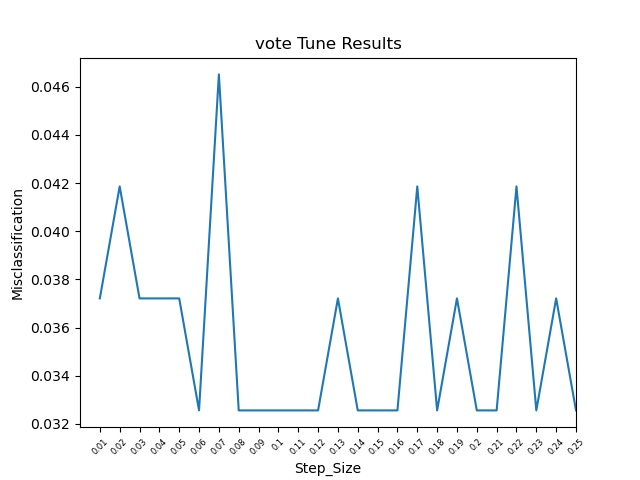
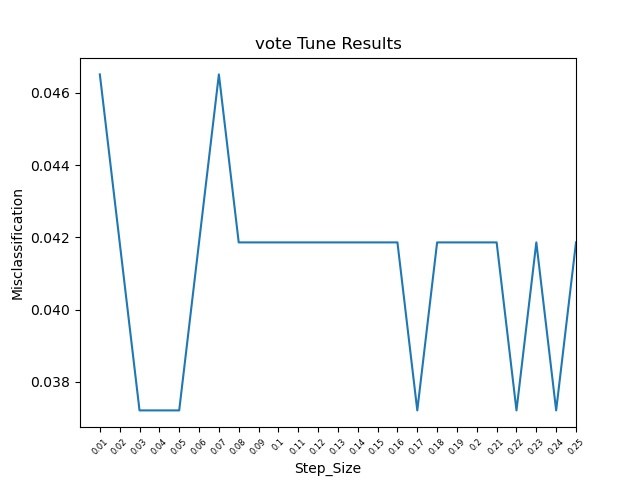
Commenting for logistic, fixed a bug for gradient descent doing one too many updates

diff --git a/logistic_regression/logistic_regression.py b/logistic_regression/logistic_regression.py
@@ -7,6 +7,12 @@ import matplotlib.pyplot as plt
 class LogisticRegressor:
     """
     Class LogisticRegressor
+
+    This class implements a logistic regression which splits the classes using a logistic discriminant and a softmax
+        function. Weights for determining class splits are learned using gradient descent. The class with the highest
+        softmax is the predicted class. Functions implemented are Tune, Fit, Predict, and Summarize. The tune function
+        is optional and outputs results for various step sizes. To run a Fit on a desired step size add the command line
+        argument <-s float> when running main.
     """
     def __init__(self, etl, step_size=.01):
         """
@@ -15,6 +21,7 @@ class LogisticRegressor:
         Sets main variables and array conversion
 
         :param etl: etl, etl object with transformed and split data
+        :param step_size: float, desired step_size to use during training
         """
         # Meta Variables
         self.etl = etl
@@ -51,143 +58,45 @@ class LogisticRegressor:
         self.summary_classification = None
 
     def tune(self):
+        """
+        Tune function.
+
+        This function runs through a couple of step_sizes. The model is then trained for that step_size and then tested
+            against the tune data set. The resulting misclassification is stored and then visualized as a chart. The
+            step_size for the entire model is not set here. That should be done by adding a step_size argument
+        """
+        # Gather default step_sizes
         step_sizes = self.tune_results.keys()
 
+        # Loop through step_sizes to test
         for step_size in step_sizes:
             misclassification = 0
 
+            # Train over the 5 CV splits
             for index in range(5):
+                # Gather variables, weights and intercepts come from the training
                 data = self.train_array_split[index]
                 weights, intercepts = self.train(data, step_size)
 
+                # Classify using our model and tune data set
                 model = {
                     'weights': weights,
                     'intercepts': intercepts
                 }
                 predictions = self.classify(self.tune_array, model)
 
+                # Compare results
                 results = pd.DataFrame.copy(self.tune_data)
                 results['Prediction'] = predictions
 
+                # Calculate misclassification
                 misclassification += len(results[results['Class'] != results['Prediction']]) / len(results)
 
+            # Save results
             self.tune_results.update({step_size: misclassification / 5})
 
+        # Trigger visualization
         self.visualize()
-
-    def fit(self):
-        for index in range(5):
-            data = self.train_array_split[index]
-
-            weights, intercepts = self.train(data)
-
-            self.train_models[index].update({
-                'weights': weights,
-                'intercepts': intercepts
-            })
-
-    def train(self, data, step_size=None):
-        if not step_size:
-            step_size = self.step_size
-
-        x = data[:, :-1].astype(float)
-        y = data[:, -1]
-
-        weights = np.random.uniform(low=-.01, high=.01, size=(self.classes, x.shape[1]))
-        intercepts = np.zeros((self.classes, 1))
-
-        misclassification = 1
-
-        while True:
-            weights_delta = np.zeros((self.classes, x.shape[1]))
-            intercepts_delta = np.zeros((self.classes, 1))
-
-            outputs = np.matmul(x, weights.T) + intercepts.T
-            likelihood = (np.exp(outputs) / np.sum(np.exp(outputs), axis=1)[:, None])
-            predictions = np.argmax(likelihood, axis=1).astype('O')
-
-            for index in range(self.classes):
-                current_class = self.class_names[index]
-                actuals = (y == current_class).astype(int)
-                difference = (actuals - likelihood[:, index])
-
-                weights_delta[index, :] = np.matmul(difference, x)
-                intercepts_delta[index, :] += sum(difference)
-
-                predictions[predictions == index] = self.class_names[index]
-
-            weights = weights + (step_size * weights_delta)
-            intercepts = intercepts + (step_size * intercepts_delta)
-
-            new_misclassification = sum(predictions != y) / len(y)
-
-            if new_misclassification < misclassification:
-                misclassification = new_misclassification
-            else:
-                break
-
-        return weights, intercepts
-
-    def predict(self):
-        for index in range(5):
-            data = self.test_array_split[index]
-            model = self.train_models[index]
-
-            predictions = self.classify(data, model)
-
-            results = pd.DataFrame.copy(self.test_split[index])
-            results['Prediction'] = predictions
-
-            misclassification = len(results[results['Class'] != results['Prediction']]) / len(results)
-
-            self.test_results[index].update({
-                'results': results,
-                'misclassification': misclassification
-            })
-
-    def classify(self, data, model):
-        x = data[:, :-1].astype(float)
-
-        weights = model['weights']
-        intercepts = model['intercepts']
-
-        outputs = np.matmul(x, weights.T) + intercepts.T
-        likelihood = (np.exp(outputs) / np.sum(np.exp(outputs), axis=1)[:, None])
-        predictions = np.argmax(likelihood, axis=1).astype('O')
-
-        for index in range(self.classes):
-            predictions[predictions == index] = self.class_names[index]
-
-        return predictions
-
-    def summarize(self):
-        # Calculate misclassification
-        misclassification = sum([self.test_results[index]['misclassification'] for index in range(5)])
-
-        # Summary JSON
-        self.summary = {
-            'tune': {
-                'step_size': self.step_size
-            },
-            'test': {
-                'misclassification': misclassification / 5
-            }
-        }
-
-        # Output JSON
-        with open(f'output_{self.data_name}\\logistic_{self.data_name}_summary.json', 'w') as file:
-            json.dump(self.summary, file)
-
-        # Summary CSV
-        summary_classification = pd.DataFrame()
-
-        # Loop through each test data set and add the results
-        for index in range(5):
-            summary_classification = summary_classification.append(self.test_results[index]['results'])
-
-        # Dump CSV and save
-        summary_classification.to_csv(f'output_{self.data_name}\\logistic_{self.data_name}_classification.csv')
-        self.summary_classification = summary_classification
 
     def visualize(self):
         """
@@ -217,3 +126,194 @@ class LogisticRegressor:
 
         # Saving
         plt.savefig(f'output_{self.data_name}\\logistic_{self.data_name}_tune.jpg')
+
+    def fit(self):
+        """
+        Fit Function
+
+        This function loops through the 5 CV splits and then calls to the train function. It receives the results of the
+            train function and sets the model for that split
+        """
+        # Loop through the 5 CV splits
+        for index in range(5):
+            # Assign data
+            data = self.train_array_split[index]
+
+            # Train
+            weights, intercepts = self.train(data)
+
+            # Set model
+            self.train_models[index].update({
+                'weights': weights,
+                'intercepts': intercepts
+            })
+
+    def train(self, data, step_size=None):
+        """
+        Train Function
+
+        This function takes data and then performs gradient descent on it to discover the optimal weights. Gradient
+            descent occurs until there are no further changes to misclassification. The step_size is used as a scalar
+            for the deltas in gradient descent
+
+        :param data: np.array, data to train on
+        :param step_size: float, step_size for gradient descent
+        :return weights: np.array, floats of the weights by class and dimensions (rows = classes, columns = dimensions)
+        :return intercepts: np.array, floats of the intercepts by class (rows = classes, columns = only 1)
+        """
+        # Grab step_size
+        if not step_size:
+            step_size = self.step_size
+
+        # Assign X and Y
+        x = data[:, :-1].astype(float)
+        y = data[:, -1]
+
+        # Initial weight and intercept variables. Rows = classes, columns = dimensions
+        weights = np.random.uniform(low=-.01, high=.01, size=(self.classes, x.shape[1]))
+        intercepts = np.zeros((self.classes, 1))
+
+        # Initial misclassification
+        misclassification = 1
+
+        # Use a while loop, we'll break out with a comparison later
+        while True:
+            # Initial delta variables, all set to 0
+            weights_delta = np.zeros((self.classes, x.shape[1]))
+            intercepts_delta = np.zeros((self.classes, 1))
+
+            # Grab outputs, likelihoods, and make predictions on the current weights and intercepts
+            # The likelihood calculation uses a softmax
+            outputs = np.matmul(x, weights.T) + intercepts.T
+            likelihood = (np.exp(outputs) / np.sum(np.exp(outputs), axis=1)[:, None])
+            predictions = np.argmax(likelihood, axis=1).astype('O')
+
+            # For each class, we will calculate the changes to delta
+            for index in range(self.classes):
+                # For this current class, calculate the difference between actual and the softmax likelihood
+                current_class = self.class_names[index]
+                actuals = (y == current_class).astype(int)
+                difference = (actuals - likelihood[:, index])
+
+                # Update the deltas for this class
+                weights_delta[index, :] = np.matmul(difference, x)
+                intercepts_delta[index, :] += sum(difference)
+
+                # Update the predictions with class names
+                predictions[predictions == index] = self.class_names[index]
+
+            # Calculate new misclassification
+            new_misclassification = sum(predictions != y) / len(y)
+
+            # Stop condition, if no convergence, set misclassification to new and continue while
+            if new_misclassification < misclassification:
+                misclassification = new_misclassification
+
+            # If misclassification did not change between new and old, stop and break from while loop
+            else:
+                break
+
+            # Update weights and intercepts with deltas
+            weights = weights + (step_size * weights_delta)
+            intercepts = intercepts + (step_size * intercepts_delta)
+
+        # Return final weights and intercepts
+        return weights, intercepts
+
+    def predict(self):
+        """
+        Predict Function
+
+        This function loops through the 5 CV splits and then calls to the classify function. It receives the results of
+            the classification function and sets the results for that split
+        """
+        # Loop through the 5 CV splits
+        for index in range(5):
+            # Assign data
+            data = self.test_array_split[index]
+            model = self.train_models[index]
+
+            # Classify, get results
+            predictions = self.classify(data, model)
+
+            # Compare results
+            results = pd.DataFrame.copy(self.test_split[index])
+            results['Prediction'] = predictions
+
+            # Calculate misclassification
+            misclassification = len(results[results['Class'] != results['Prediction']]) / len(results)
+
+            # Save results
+            self.test_results[index].update({
+                'results': results,
+                'misclassification': misclassification
+            })
+
+    def classify(self, data, model):
+        """
+        Classify Function
+
+        This function takes data and then calculates the softmax likelihood using the weights of the model. The highest
+            likelihood is the assigned class
+
+        :param data: np.array, data to train on
+        :param model: dict, dictionary of out model with weights and intercepts
+        :return predictions: np.array, assigned class, ordered in the order of the data param
+        """
+        # Assign data
+        x = data[:, :-1].astype(float)
+
+        # Assign model variables
+        weights = model['weights']
+        intercepts = model['intercepts']
+
+        # Grab outputs, likelihoods, and make predictions on the current weights and intercepts
+        # The likelihood calculation uses a softmax
+        outputs = np.matmul(x, weights.T) + intercepts.T
+        likelihood = (np.exp(outputs) / np.sum(np.exp(outputs), axis=1)[:, None])
+        predictions = np.argmax(likelihood, axis=1).astype('O')
+
+        # For each class, make a prediction using the index of the highest softmax likelihood
+        for index in range(self.classes):
+            predictions[predictions == index] = self.class_names[index]
+
+        # Return the predictions
+        return predictions
+
+    def summarize(self):
+        """
+        Summarize Function
+
+        This function outputs a CSV and a JSON file for the results of the predict. The CSV is the combined results of
+            all 5 CV splits and their prediction. The JSON file is the step_size used and the misclassification.
+
+        :return csv: csv, output of predictions of all CV splits to output folder
+        :return json: json, dictionary of the results of all CV splits to output folder
+        """
+        # Calculate misclassification
+        misclassification = sum([self.test_results[index]['misclassification'] for index in range(5)])
+
+        # Summary JSON
+        self.summary = {
+            'tune': {
+                'step_size': self.step_size
+            },
+            'test': {
+                'misclassification': misclassification / 5
+            }
+        }
+
+        # Output JSON
+        with open(f'output_{self.data_name}\\logistic_{self.data_name}_summary.json', 'w') as file:
+            json.dump(self.summary, file)
+
+        # Summary CSV
+        summary_classification = pd.DataFrame()
+
+        # Loop through each test data set and add the results
+        for index in range(5):
+            summary_classification = summary_classification.append(self.test_results[index]['results'])
+
+        # Dump CSV and save
+        summary_classification.to_csv(f'output_{self.data_name}\\logistic_{self.data_name}_classification.csv')
+        self.summary_classification = summary_classification
